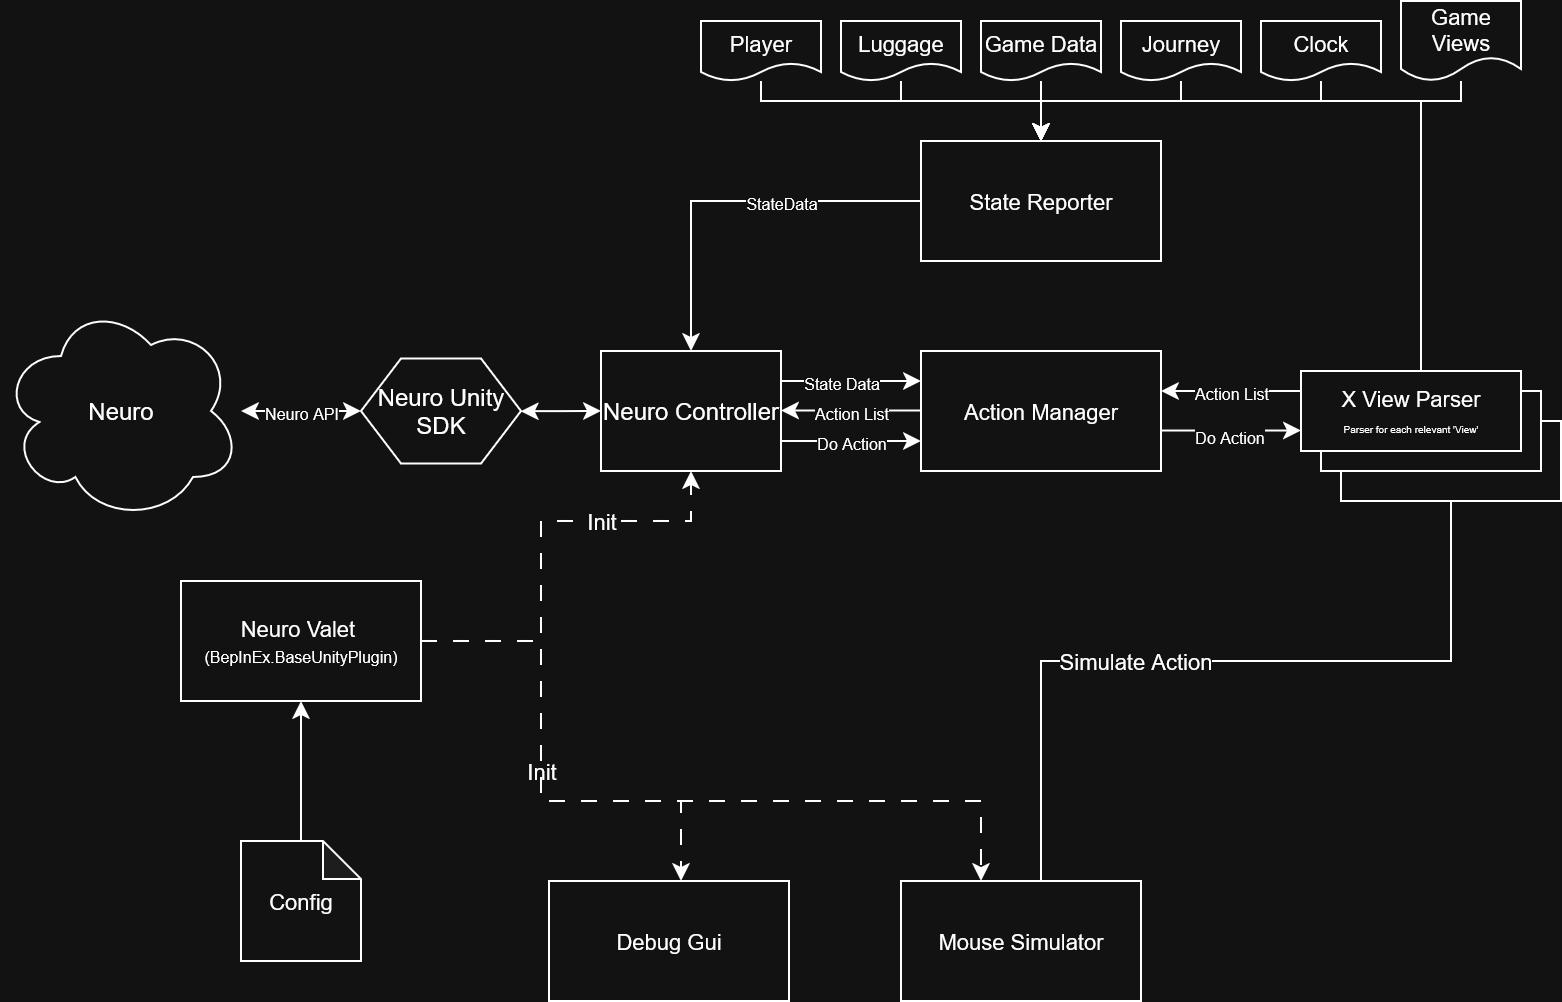
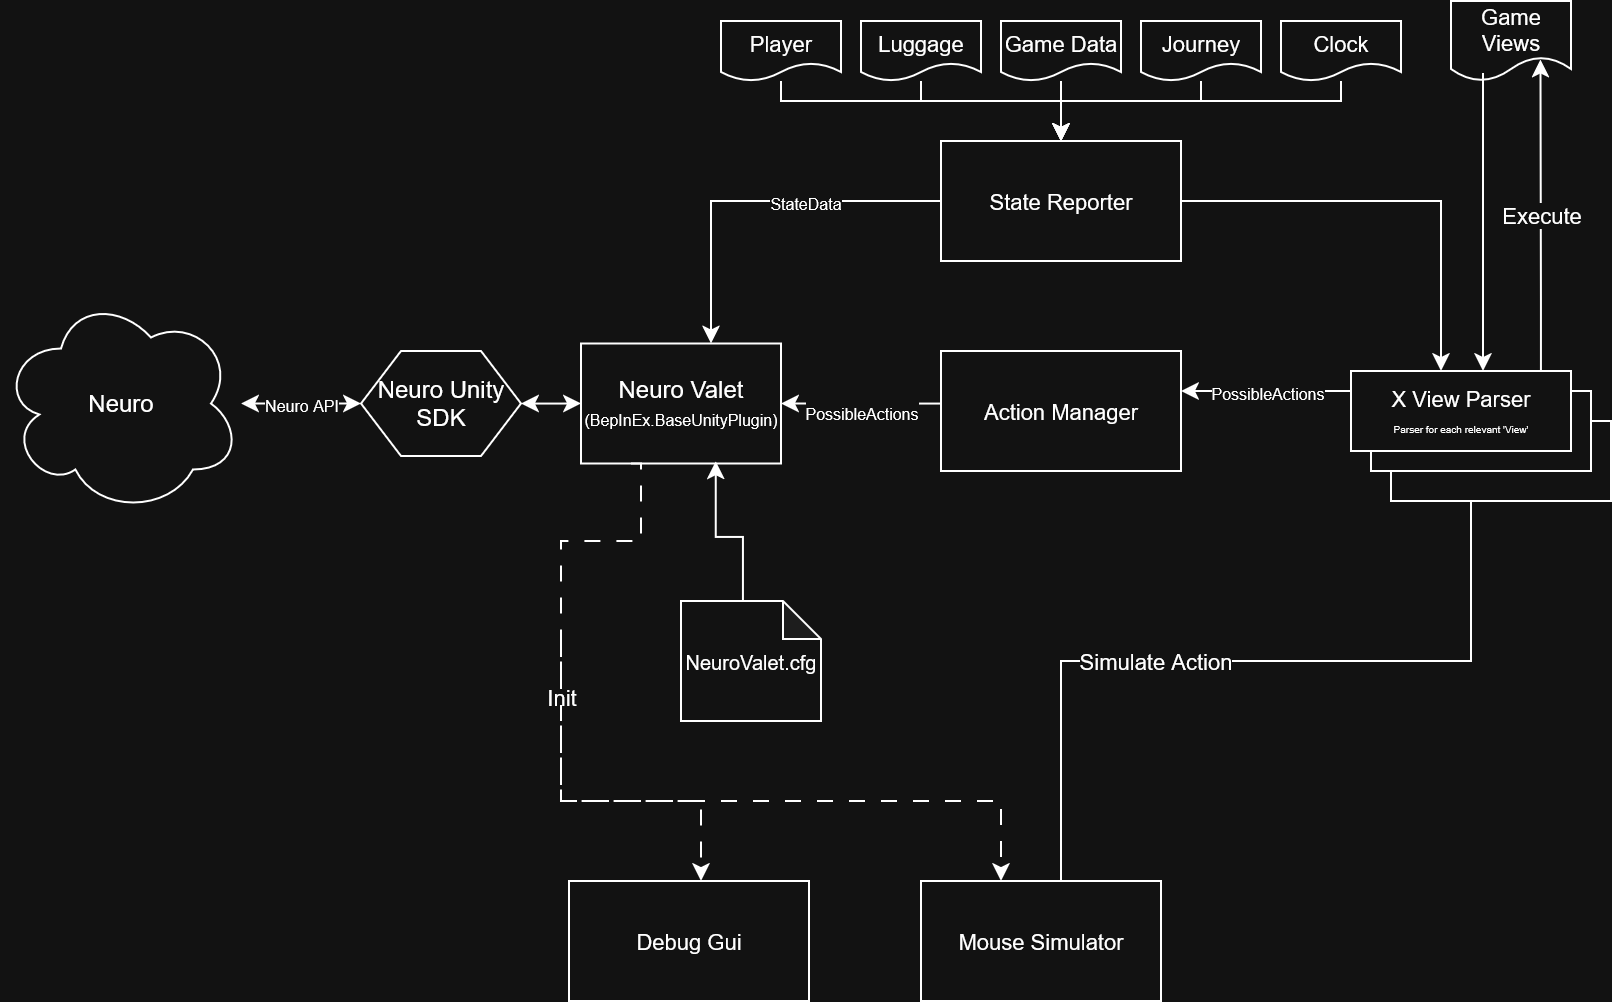
Updating readme and diagrams per latest design changes

diff --git a/NeuroValet.cs b/NeuroValet.cs
@@ -92,7 +92,7 @@ public class NeuroValet : BaseUnityPlugin
         }
         if (Input.GetKeyDown(KeyCode.F2))
         {
-            Game.Static.game.globeControls.FocusOnPlayer();
+            MouseSimulator.DrawCursor();
         }
     }
 

diff --git a/README.md b/README.md
@@ -1,7 +1,7 @@
 # NeuroValet
 ### Neuro-sama integration for 80 Days, allowing Neuro and Evil to do all the work for yet another British guy
 
-This is a BepInEx plugin, and uses the [Neuro game SDK](https://github.com/VedalAI/neuro-game-sdk/tree/main) to integrate with Neuros and let them play the game.
+This is a BepInEx plugin, and uses the [Neuro game SDK](https://github.com/VedalAI/neuro-game-sdk/tree/main) to integrate with Neuro to let her play the game.
 
 ## Design 
 ![Diagram](DesignDiagram.png)
@@ -9,14 +9,14 @@ This is a BepInEx plugin, and uses the [Neuro game SDK](https://github.com/Vedal
 
 ### Main Sections:
 * **State Reporter**: Gathers and compiles various state data to provide context for Neuro.
-* **Action Manager**: Determines which actions are currently available, by determining which views are visible at the moment and asking each one what it can do. It also handles the action Neuro chooses by running it through the right view.
+* **Action Manager**: Determines which actions are currently available, by determining which views are visible at the moment, and asking each one what it can do in order of priority.
 
 ### Other Sections:
-* **Neuro Controller**: Serves as interface between the SDK and the State&Action data.
+* **Neuro Valet**: Plugin's main file. Serves as the interface between the SDK and the State&Action data, and manages the flow of the plugin.
 * **View Parser**: 
 The game runs most of its actions through it's UI, in what it calls 'Views'. Each view is a section in the GUI that shows or hides according to current game state (such as Converse view for dialogue, Cloud View for actions within the City and so on). Each parser is responsible for understanding its view, which actions are available, and running the actions.
-* **Mouse Simulator**: 
-Game is GUI (and mouse) focused, and so to fully run most actions has to go through UI events such as dragging and dropping an item from the market to a suitcase. Therefore the mod forces mouse position & buttons to run most actions (not necessary all). 
+* **Mouse Simulator**: *(Not in use yet)* 
+The game is very GUI-focused, and to fully do some actions, such as dragging and dropping an item from the market to a suitcase, requires going through UI events.
 Note this does not move the real mouse cursor, only where unity's Input system thinks the mouse position at. It does block actions by the mouse when active.
 
 
